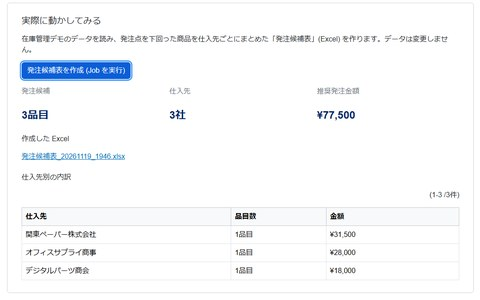
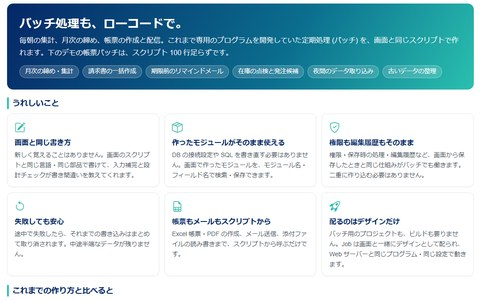
調整

diff --git a/Samples/LowCodeSamples/Design/Resources/Job/job_hero.html b/Samples/LowCodeSamples/Design/Resources/Job/job_hero.html
@@ -1,0 +1,47 @@
+<style>
+  .jh { font-family: inherit; color: #1f2937; }
+  .jh-hero { background: linear-gradient(120deg, #052767 0%, #0b6f8f 60%, #2ac0af 100%); color: #fff; border-radius: 14px; padding: 26px 28px; margin: 0 0 18px; }
+  .jh-hero h2 { font-size: 1.7rem; font-weight: 800; margin: 0 0 8px; line-height: 1.35; }
+  .jh-hero p { margin: 0; font-size: 1rem; line-height: 1.75; opacity: .95; }
+  .jh-uses { display: flex; flex-wrap: wrap; gap: 8px; margin: 14px 0 0; }
+  .jh-uses span { background: rgba(255,255,255,.16); border: 1px solid rgba(255,255,255,.35); border-radius: 999px; padding: 3px 12px; font-size: .85rem; }
+  .jh-h { font-size: 1.1rem; font-weight: 700; color: #052767; margin: 0 0 10px; border-left: 4px solid #2ac0af; padding-left: 8px; }
+  .jh-cards { display: grid; grid-template-columns: repeat(auto-fit, minmax(300px, 1fr)); gap: 12px; margin: 0 0 20px; }
+  .jh-card { background: #fff; border: 1px solid #e5e7eb; border-radius: 12px; padding: 14px 16px; box-shadow: 0 1px 2px rgba(0,0,0,.04); }
+  .jh-card i { font-size: 1.5rem; color: #2ac0af; }
+  .jh-card b { display: block; color: #052767; font-size: 1rem; margin: 4px 0 4px; }
+  .jh-card p { margin: 0; font-size: .87rem; line-height: 1.65; color: #4b5563; }
+  .jh-cmp { width: 100%; border-collapse: separate; border-spacing: 0; margin: 0 0 6px; font-size: .9rem; }
+  .jh-cmp th { text-align: left; padding: 8px 12px; font-weight: 700; }
+  .jh-cmp th.a { background: #f3f4f6; color: #6b7280; border-radius: 10px 0 0 0; width: 46%; }
+  .jh-cmp th.b { background: #052767; color: #fff; border-radius: 0 10px 0 0; }
+  .jh-cmp td { padding: 8px 12px; border-bottom: 1px solid #e5e7eb; line-height: 1.5; }
+  .jh-cmp td.a { color: #6b7280; background: #fafafa; }
+  .jh-cmp td.b { color: #052767; font-weight: 600; background: #f0fbf9; }
+  .jh-cmp td.b i { color: #2ac0af; margin-right: 6px; }
+</style>
+<div class="jh">
+  <div class="jh-hero">
+    <h2>バッチ処理も、ローコードで。</h2>
+    <p>毎朝の集計、月次の締め、帳票の作成と配信。これまで専用のプログラムを開発していた定期処理 (バッチ) を、画面と同じスクリプトで作れます。下のデモの帳票バッチは、スクリプト 100 行足らずです。</p>
+    <div class="jh-uses"><span>月次の締め・集計</span><span>請求書の一括作成</span><span>期限前のリマインドメール</span><span>在庫の点検と発注候補</span><span>夜間のデータ取り込み</span><span>古いデータの整理</span></div>
+  </div>
+  <p class="jh-h">うれしいこと</p>
+  <div class="jh-cards">
+    <div class="jh-card"><i class="bi bi-pencil-square"></i><b>画面と同じ書き方</b><p>新しく覚えることはありません。画面のスクリプトと同じ言語・同じ部品で書けて、入力補完と設計チェックが書き間違いを教えてくれます。</p></div>
+    <div class="jh-card"><i class="bi bi-box-seam"></i><b>作ったモジュールがそのまま使える</b><p>DB の接続設定や SQL を書き直す必要はありません。画面で作ったモジュールを、モジュール名・フィールド名で検索・保存できます。</p></div>
+    <div class="jh-card"><i class="bi bi-shield-check"></i><b>権限も編集履歴もそのまま</b><p>権限・保存時の処理・編集履歴など、画面から保存したときと同じ仕組みがバッチでも働きます。二重に作り込む必要はありません。</p></div>
+    <div class="jh-card"><i class="bi bi-arrow-counterclockwise"></i><b>失敗しても安心</b><p>途中で失敗したら、それまでの書き込みはまとめて取り消されます。中途半端なデータが残りません。</p></div>
+    <div class="jh-card"><i class="bi bi-file-earmark-spreadsheet"></i><b>帳票もメールもスクリプトから</b><p>Excel 帳票・PDF の作成、メール送信、添付ファイルの読み書きまで、スクリプトから呼ぶだけです。</p></div>
+    <div class="jh-card"><i class="bi bi-rocket-takeoff"></i><b>配るのはデザインだけ</b><p>バッチ用のプロジェクトも、ビルドも要りません。Job は画面と一緒にデザインとして配られ、Web サーバーと同じプログラム・同じ設定で動きます。</p></div>
+  </div>
+  <p class="jh-h">これまでの作り方と比べると</p>
+  <table class="jh-cmp">
+    <tr><th class="a">これまでのバッチ開発</th><th class="b">ローコードの Job</th></tr>
+    <tr><td class="a">バッチ用のプログラムを別に開発する</td><td class="b"><i class="bi bi-check-circle-fill"></i>デザイナで Job を追加して、スクリプトを書くだけ</td></tr>
+    <tr><td class="a">DB の接続設定と SQL を用意する</td><td class="b"><i class="bi bi-check-circle-fill"></i>画面で作ったモジュールをそのまま検索・保存</td></tr>
+    <tr><td class="a">権限や履歴の処理をバッチ側にも作り込む</td><td class="b"><i class="bi bi-check-circle-fill"></i>画面と同じ仕組みが自動で働く</td></tr>
+    <tr><td class="a">帳票・メールの仕組みを別に組み込む</td><td class="b"><i class="bi bi-check-circle-fill"></i>Excel 帳票・PDF・メールをスクリプトから呼ぶだけ</td></tr>
+    <tr><td class="a">ビルドしてサーバーに配置する</td><td class="b"><i class="bi bi-check-circle-fill"></i>デザインを更新するだけ</td></tr>
+  </table>
+</div>

diff --git a/Samples/LowCodeSamples/Design/Resources/Job/job_demo.html b/Samples/LowCodeSamples/Design/Resources/Job/job_demo.html
@@ -1,5 +1,6 @@
 <style>
   .jd { font-family: inherit; color: #1f2937; }
+  .jd-h { font-size: 1.1rem; font-weight: 700; color: #052767; margin: 0 0 10px; border-left: 4px solid #2ac0af; padding-left: 8px; }
   .jd-flow { display: flex; flex-wrap: wrap; align-items: stretch; gap: 8px; margin: 4px 0 18px; }
   .jd-step { flex: 1 1 160px; background: #f3f4f6; border: 1px solid #e5e7eb; border-radius: 8px; padding: 10px 12px; font-size: .85rem; line-height: 1.5; }
   .jd-step b { display: block; color: #052767; margin-bottom: 2px; }
@@ -18,6 +19,7 @@
 </style>
 
 <div class="jd">
+  <p class="jd-h">このデモの中身</p>
   <div class="jd-flow">
     <div class="jd-step"><b>起動</b>毎朝 6:00 にスケジューラから / 画面のボタンから</div>
     <span class="jd-arrow">&rarr;</span>
@@ -29,7 +31,7 @@
   </div>
   <div class="jd-wrap">
     <div class="jd-code">
-      <p class="jd-file">Jobs/ReorderReport.job.cs (この Job の全文)</p>
+      <p class="jd-file">Jobs/ReorderReport.job.cs (上のデモで動いた Job の全文)</p>
 <pre><span class="k">string</span> Run(JobArguments args)
 {
     <span class="c">// 1. 発注点を下回った商品 (在庫管理の「要発注品」。不足の大きい順) を読む</span>
@@ -126,19 +128,17 @@
 }</pre>
     </div>
     <div class="jd-info">
-      <h3>作り方</h3>
-      <ul>
-        <li>デザイナで Job を追加し、<code>Run</code> を書くだけ。画面のスクリプトと同じ書き方です</li>
-        <li>検索・追加・更新・削除は、作ったモジュールをそのまま使います。権限・保存時の処理・編集履歴も画面から保存したときと同じです</li>
-        <li>途中で失敗すると、それまでの書き込みはまとめて取り消されます</li>
-        <li>Excel 帳票・メール送信・添付ファイルもスクリプトから使えます</li>
-        <li>デザイナが入力補完と設計チェックで書き間違いを教えてくれます</li>
-      </ul>
       <h3>起動の仕方</h3>
       <ul>
-        <li>定期実行: <code>dotnet LowCodeApp.Server.dll job ReorderReport</code> を、Windows のタスクスケジューラ・cron・Azure などに登録</li>
-        <li>画面から: ジョブトリガーのボタンで実行。結果 (件数や作ったファイル) を画面に返せます</li>
-        <li>Web サーバーと同じプログラム・同じ設定で動くので、バッチ用のプロジェクトや接続設定を別に用意する必要はありません</li>
+        <li><b>定期実行</b>: <code>dotnet LowCodeApp.Server.dll job ReorderReport</code> を、Windows のタスクスケジューラ・cron・Azure などに登録するだけ</li>
+        <li><b>画面から</b>: ジョブトリガーのボタンで実行。件数や作ったファイルなど、結果を画面に返せます (上のデモ)</li>
+        <li>終わるまで待つ・起動だけして戻る、のどちらも選べます</li>
+      </ul>
+      <h3>運用も考えてあります</h3>
+      <ul>
+        <li>誰の権限で動かすかを Job ごとに決められます (専用のアカウントで実行)</li>
+        <li>スクリプトからログを出せます。失敗した理由は画面にも通知されます</li>
+        <li>スクリプトで足りない処理は、同じ仕組みのまま C# でも書けます</li>
       </ul>
     </div>
   </div>

diff --git a/Samples/LowCodeSamples/Design/Resources/Home/home.html b/Samples/LowCodeSamples/Design/Resources/Home/home.html
@@ -23,7 +23,7 @@
       <a class="dh-card" href="/Main/CrossTabDemo"><img src="/api/module_data/resource?resource=Home/crosstab.jpg" alt="" loading="lazy" /><div class="dh-body"><p class="dh-title">クロス集計</p><p class="dh-desc">担当者 × 四半期などの集計表。行・列の組み替えも画面から。</p></div></a>
       <a class="dh-card" href="/Main/AggregateChartDemo"><img src="/api/module_data/resource?resource=Home/aggchart.jpg" alt="" loading="lazy" /><div class="dh-body"><p class="dh-title">集計チャート</p><p class="dh-desc">DB で集計してグラフに。件数が増えても軽く動きます。</p></div></a>
       <a class="dh-card" href="/Main/Inquiry"><img src="/api/module_data/resource?resource=Home/sqlagg.jpg" alt="" loading="lazy" /><div class="dh-body"><p class="dh-title">SQL での集計</p><p class="dh-desc">SQL を書いて、その結果を画面に表示。集計期間などの条件は画面から渡せます。</p></div></a>
-      <a class="dh-card" href="/Main/JobDemo"><img src="/api/module_data/resource?resource=Home/job.jpg" alt="" loading="lazy" /><div class="dh-body"><p class="dh-title">バッチ処理 (Job)</p><p class="dh-desc">毎朝の集計・帳票作成などの定期処理もスクリプトで。この画面から実際に動かせます。</p></div></a>
+      <a class="dh-card" href="/Main/JobDemo"><img src="/api/module_data/resource?resource=Home/job.jpg" alt="" loading="lazy" /><div class="dh-body"><p class="dh-title">バッチ処理もローコードで</p><p class="dh-desc">毎朝の集計・月次の締め・帳票の配信も、画面と同じスクリプトで。実際に動かせます。</p></div></a>
     </div>
   </div>
 
